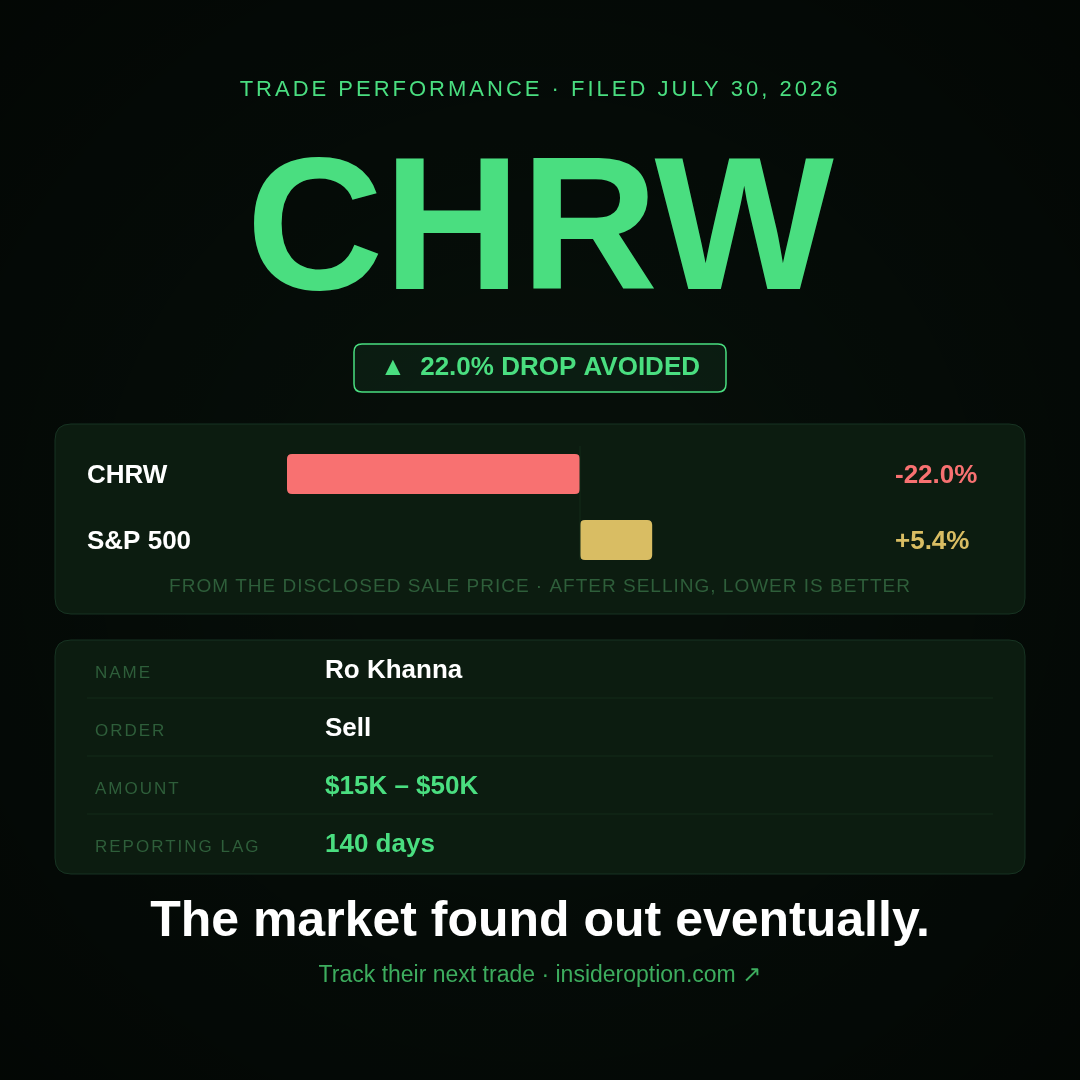
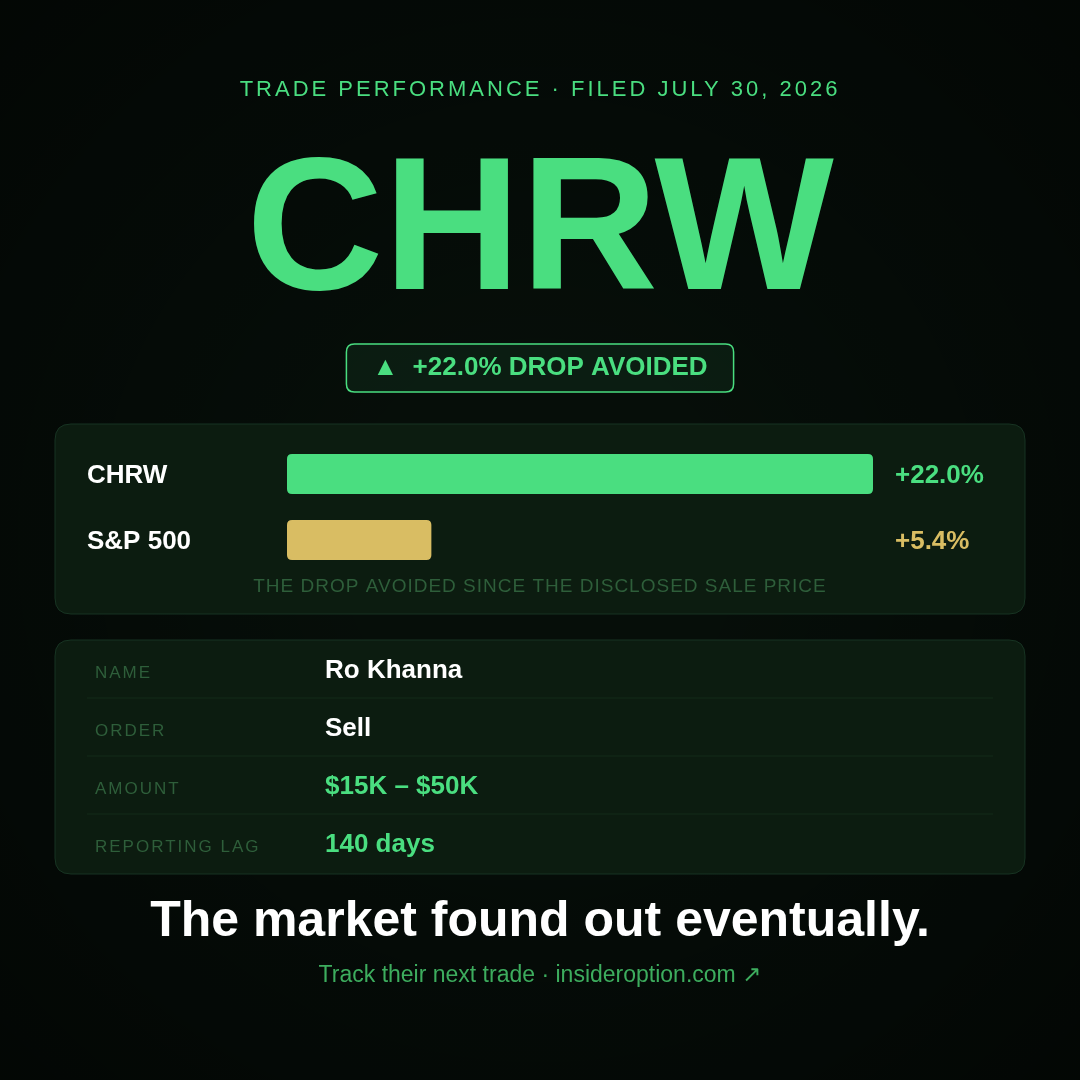
Post the same performance figure the website shows
The card was negating sales to display the stock's raw direction, so a sale the
site's own table shows as a green +22.00% posted as a red -22%. Anyone clicking
through from the post to the trade would read that as a bug.

It now passes transactions.performance through unchanged as performance_pct —
the exact column calculatePerformance (strategy-detail.tsx) and
getTransactionPerformance (politician-profile.tsx) render per trade. Positive
means it went the filer's way in both directions.

The cost is that a sale's positive number looks like the stock went up when it
means the opposite, so the number is never printed bare:

  badge   ▲ +22.0% DROP AVOIDED
  strip   THE DROP AVOIDED SINCE THE DISCLOSED SALE PRICE
  caption CHRW fell 22.0% while the S&P 500 rose +5.4% — +27.4% avoided by
          getting out.

The edge calculation follows the same convention: for a buy it is the site's own
alpha construction (performance − sp500Return, strategy-detail.tsx:522); for a
sale the two add, since they escaped a fall while the index rose.

Noted in SETUP.md for the app side: strategy-detail.tsx computes isSell and never
uses it, so a sale renders as a bare green +22.00% in the same style as a
profitable buy, while its own fallback branch uses the opposite sign convention
for sales. Those two paths disagree and are worth reconciling there.

Claude-Session: https://claude.ai/code/session_01KbmRQo28CicReADwEKXkPg

Changed region(s): [[0.2444, 0.3972, 0.9167, 0.55], [0.3056, 0.3056, 0.7028, 0.3667], [0.1528, 0.5194, 0.2139, 0.55]]

diff --git a/image-generator/server.js b/image-generator/server.js
@@ -381,16 +381,25 @@ function formatPct(n) {
 /*
  * Performance card, same visual language as drawTradeCard.
  *
- * `stock_move_pct` is the SIGNED move of the stock since the disclosed transaction
- * price — not the DB `performance` column, which is inverted for sells. The n8n
- * workflow sign-corrects before calling this. One consistent number in both cases:
+ * `performance_pct` is the SAME number the website shows for that trade — the
+ * stored `transactions.performance` column, which answers "did this go the
+ * filer's way?":
  *
- *   buy  → what the position gained/lost since they bought
- *   sell → what the stock did after they sold
+ *   buy  → (current - tx) / tx     positive = the position is up
+ *   sell → (tx - current) / tx     positive = the stock FELL after they sold
+ *
+ * Keeping the card on the site's column matters more than internal tidiness: a
+ * post that says -22% for a trade the site's own table shows as +22% reads as a
+ * bug to anyone who clicks through. An earlier version of this card negated
+ * sales to show the stock's raw direction, and that is exactly the mismatch it
+ * produced.
+ *
+ * The cost is that a sale's positive number is easy to misread as "the stock went
+ * up", so the badge and the strip caption both say what it is in words. Do not
+ * reduce them to a bare percentage.
  *
  * It is the filer's window, NOT a follower's: the filing became public up to 45
- * days later. That is why the strip is captioned with the price basis and the lag
- * is its own table row. Do not relabel those to imply a follower's return.
+ * days later. That is why the lag is its own table row.
  */
 function drawPerformanceCard(p) {
   const W = 1080, H = 1080;
@@ -402,10 +411,10 @@ function drawPerformanceCard(p) {
   // is finite — so a bare Number.isFinite() guard lets a missing figure through
   // and renders it as a confident "+0.0%". Reject the empty cases first.
   const numeric = v => v !== null && v !== undefined && v !== '' && Number.isFinite(Number(v));
-  if (!numeric(p.stock_move_pct)) throw new Error('stock_move_pct is required and must be numeric');
+  if (!numeric(p.performance_pct)) throw new Error('performance_pct is required and must be numeric');
   if (!numeric(p.benchmark_pct)) throw new Error('benchmark_pct is required — a return with no benchmark is not a measurement');
 
-  const move  = Number(p.stock_move_pct);
+  const perf  = Number(p.performance_pct);
   const bench = Number(p.benchmark_pct);
 
   const isBuy = /purchase|buy|achat/i.test(p.type || '');
@@ -444,13 +453,15 @@ function drawPerformanceCard(p) {
   // precisely because the trade worked. So the badge states the outcome and takes
   // its colour from that, while the bars below stay strictly literal about what
   // the stock and the index did.
-  const up = move >= 0;
-  const wentTheirWay = isBuy ? move >= 0 : move <= 0;
+  // The column is already signed so that positive = it went their way, in both
+  // directions. The wording is what disambiguates a sale.
+  const up = perf >= 0;
+  const wentTheirWay = up;
   const badgeLabel = isBuy
-    ? `${up ? '▲' : '▼'}  ${formatPct(move)} SINCE BUY`
-    : wentTheirWay
-      ? `▲  ${Math.abs(move).toFixed(1)}% DROP AVOIDED`
-      : `▼  ${formatPct(move)} MISSED AFTER SELLING`;
+    ? `${up ? '▲' : '▼'}  ${formatPct(perf)} SINCE BUY`
+    : up
+      ? `▲  ${formatPct(perf)} DROP AVOIDED`
+      : `▼  ${formatPct(Math.abs(perf))} MISSED AFTER SELLING`;
   ctx.font = `600 26px ${FONT}`;
   const badgeW = ctx.measureText(badgeLabel).width + 52;
   const badgeY = 344;
@@ -467,7 +478,7 @@ function drawPerformanceCard(p) {
 
   // Two bars: the stock and the index over the same window
   const bars = [
-    { label: ticker, value: move, color: up ? C.green : PERF_C.red },
+    { label: ticker, value: perf, color: up ? C.green : PERF_C.red },
     { label: (p.benchmark_label || 'S&P 500').toUpperCase(), value: bench, color: PERF_C.gold },
   ];
 
@@ -526,7 +537,7 @@ function drawPerformanceCard(p) {
   ctx.fillText(
     isBuy
       ? 'MEASURED FROM THE DISCLOSED TRANSACTION PRICE'
-      : 'FROM THE DISCLOSED SALE PRICE · AFTER SELLING, LOWER IS BETTER',
+      : 'THE DROP AVOIDED SINCE THE DISCLOSED SALE PRICE',
     cx,
     stripY + stripH - 22,
   );

diff --git a/SETUP.md b/SETUP.md
@@ -153,7 +153,7 @@ Both the `id` and the ticker are remembered in workflow static data after a
 successful post, so a standout filing is not re-picked while it is still inside
 the freshness window.
 
-### The one thing not to change: `performance` means two things
+### `performance` is the site's own column, and the card passes it through
 
 `transactions.performance` answers **"did this go the filer's way?"**.
 `server/updatePerformance.ts` computes it as:
@@ -163,16 +163,29 @@ buy  → (currentPrice − txPrice) / txPrice     positive = the stock rose afte
 sell → (txPrice − currentPrice) / txPrice     positive = the stock FELL after selling
 ```
 
-So it is the right field for the **filter** in both directions — one
-`performance > 0` test — and the wrong number for the **card**, which shows what
-the stock did and therefore negates sales.
+This is the same column the website renders per trade — `calculatePerformance`
+in `client/src/pages/strategy-detail.tsx` and `getTransactionPerformance` in
+`client/src/pages/politician-profile.tsx` both display it verbatim. So the card
+posts it **unchanged**, as `performance_pct`. A post reading −22% for a trade the
+site's own table shows as +22% reads as a bug to anyone who clicks through.
 
-Both halves matter:
+The catch is that a sale's positive number looks like the stock went up, when it
+means the opposite. The card never prints it bare:
 
-- filter on the card's number instead, and you keep exactly the wrong sales —
-  the ones where the stock rose after they got out;
-- print the filter's number instead, and a sale that saved the filer 22% posts
-  as a green "+22%" when the stock in fact fell.
+- badge → `▲ +22.0% DROP AVOIDED`
+- strip caption → `THE DROP AVOIDED SINCE THE DISCLOSED SALE PRICE`
+- caption → *"CHRW fell 22.0% while the S&P 500 rose +5.4% — +27.4% avoided by
+  getting out."*
+
+Keep that wording. Reducing any of it to a percentage is what makes the number
+misleading.
+
+> **Heads up on the site itself:** `strategy-detail.tsx` computes `isSell` and
+> then never uses it, so a sale displays as a bare green `+22.00%` in the same
+> style as a profitable buy. Its own fallback branch (used when `performance` is
+> not stored) computes `(current − tx) / tx`, the **opposite** sign convention
+> for sales. Worth reconciling on the site — the card is now the clearer of the
+> two.
 
 ---
 
@@ -188,7 +201,7 @@ curl -X POST https://your-image-gen.onrender.com/generate-performance \
     "politician": "Nancy Pelosi",
     "party": "Democrat",
     "type": "achat",
-    "stock_move_pct": 30.0,
+    "performance_pct": 30.0,
     "benchmark_pct": 8.0,
     "benchmark_label": "S&P 500",
     "amount_min": 500000,
@@ -201,7 +214,7 @@ curl -X POST https://your-image-gen.onrender.com/generate-performance \
 
 Returns `{"imageUrl": "https://res.cloudinary.com/..."}`.
 
-`stock_move_pct` and `benchmark_pct` are both required and the route returns 400
+`performance_pct` and `benchmark_pct` are both required and the route returns 400
 without them — it will not render a bare return with nothing to compare it
 against. `/generate` (the old trade card) and `/generate-story` are untouched and
 still work.
